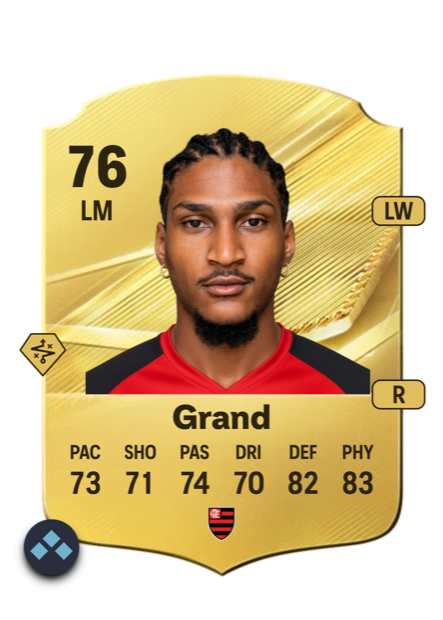
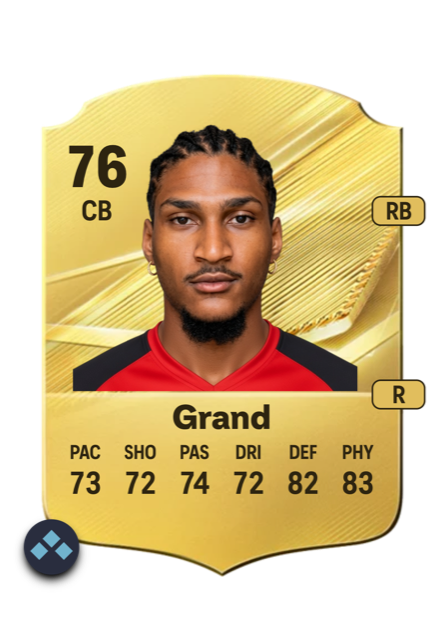
Replace Grand's card: now 76 CB (alt RB)

diff --git a/squad.js b/squad.js
@@ -101,11 +101,11 @@ const SQUAD = [
     blurb: "A quick, athletic full-back. 80 pace and 82 physical — gets up and down the flank all game.",
     about: "An athletic, attack-minded full-back who bombs forward and gets back just as fast. Comfortable on either side, and physically imposing for opposing wingers.",
     chem: "Shadow or Engine to round out his all-round game." },
-  { name: "Grand", file: "Grand.png", ovr: 76, pos: "LM", alt: ["LW"], foot: "Right", trend: "up", delta: 1,
-    pac:73, sho:71, pas:74, dri:70, def:82, phy:83,
-    blurb: "A hard-working left midfielder. 82 defending and 83 physical for a wide player — tracks back and wins his battles.",
-    about: "A two-way left-sided midfielder who puts defensive work in as readily as he gets forward. Physically strong for the position, and equally comfortable pushed further up as a winger.",
-    chem: "Shadow or Anchor to sharpen the defending, or Engine to add pace going forward." },
+  { name: "Grand", file: "Grand.png", ovr: 76, pos: "CB", alt: ["RB"], foot: "Right", trend: "up", delta: 1,
+    pac:73, sho:72, pas:74, dri:72, def:82, phy:83,
+    blurb: "A strong, athletic centre-half. 82 defending and 83 physical, with pace to match — wins his duels and covers the ground.",
+    about: "A physical, quick centre back who defends front-foot and stays composed on the ball. Just as comfortable stepping out to right back, and strong enough to handle the biggest forwards.",
+    chem: "Shadow or Anchor to sharpen the defending and add pace." },
   { name: "Scotts", file: "Scotts.png", ovr: 85, pos: "ST", alt: [], foot: "Right", trend: "up", delta: 1,
     pac:82, sho:91, pas:87, dri:88, def:74, phy:86,
     blurb: "A complete number nine. 91 shooting, 88 dribbling and 87 passing — finishes chances and creates them.",
